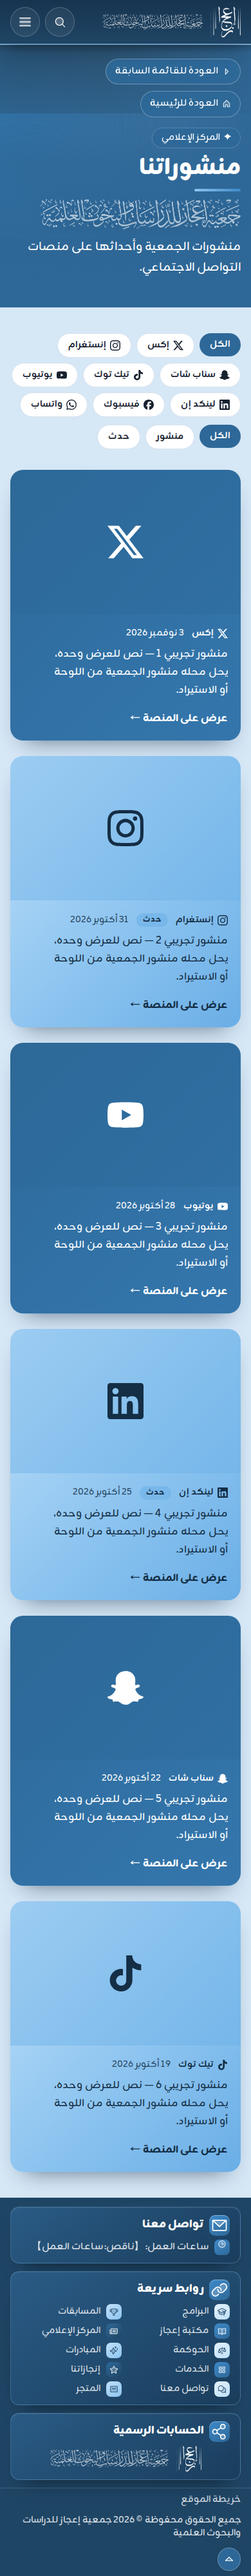
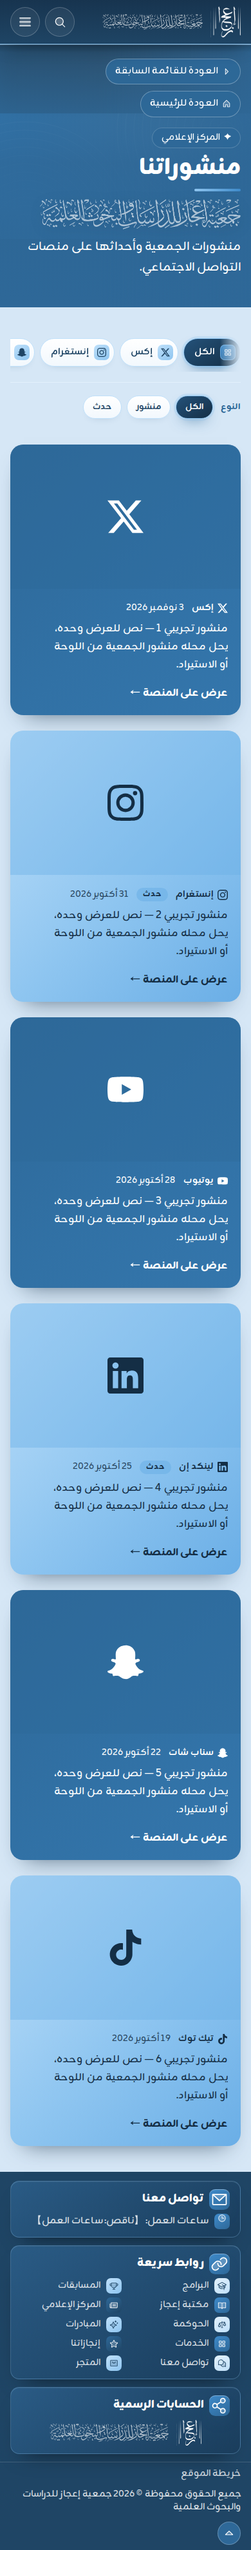
feat(media): a nicer platform filter strip on «منشوراتنا»
Safwan's note when approving #165: equal capsules with each platform's
logo in a small blue icon tile, the active one dark blue with an #8EC5F0
border and a soft glow, a small lift on hover (none for reduced motion),
one scrolling row with an edge fade on the phone that centres the active
capsule, and a smaller separate type strip under its label.

x-icon-tile now takes slot content in place of icon; without it, it draws
its icon as before.

Changed region(s): [[0.0308, 0.0, 0.9538, 0.7769], [0.0308, 0.7769, 0.9538, 0.9944], [0.4615, 0.0, 0.5846, 0.0311]]

diff --git a/resources/css/social-filters.css b/resources/css/social-filters.css
@@ -1,0 +1,162 @@
+/*
+| شريط تصفية «منشوراتنا» بالمنصة والنوع (ملاحظة صفوان على #165، 4 نوفمبر 2026 — docs/decisions/2026-11-04-social-posts.md):
+| - كبسولات بارتفاع وحشو واحد، لكل منصة شعارها في مربع أيقونة صغير متدرج (x-icon-tile بحجم xs ودرجة light).
+| - النشطة زرقاء داكنة بحد #8EC5F0 وتوهج خفيف، والمرور يرفعها قليلاً، والحركة بـ --motion فتتوقف لمن طلب تقليلها.
+| - على الجوال شريط أفقي يُمرَّر داخله بلا التفاف ولا تمرير للصفحة، بتلاشٍ عند حافته. ومن 640 بكسل يلتف كما كان.
+| - النوع شريط أصغر منفصل بعنوانه.
+| والأزرق وحده من رموز app.css.
+*/
+
+.social-filters {
+    display: flex;
+    flex-direction: column;
+    gap: 1rem;
+}
+
+.social-filter {
+    min-width: 0;
+}
+
+/* ── المسار: أفقي يُمرَّر على الجوال ── */
+.social-filter-track {
+    display: flex;
+    flex-wrap: nowrap;
+    gap: 0.5rem;
+    overflow-x: auto;
+    overscroll-behavior-inline: contain;
+    scroll-snap-type: inline proximity;
+    scrollbar-width: none;
+    /* مكان للارتفاع والتوهج داخل المسار، وللتلاشي عند حافة النهاية فتظهر آخر كبسولة كاملة حين يُمرَّر إليها */
+    padding-block: 0.5rem;
+    padding-inline: 0.375rem 2rem;
+    /* الصفحة من اليمين، فنهاية المسار يسارها */
+    -webkit-mask-image: linear-gradient(to left, transparent 0, #000 2rem);
+    mask-image: linear-gradient(to left, transparent 0, #000 2rem);
+}
+
+[dir='ltr'] .social-filter-track {
+    -webkit-mask-image: linear-gradient(to right, transparent 0, #000 2rem);
+    mask-image: linear-gradient(to right, transparent 0, #000 2rem);
+}
+
+.social-filter-track::-webkit-scrollbar {
+    display: none;
+}
+
+.social-filter-track > li {
+    flex-shrink: 0;
+    scroll-snap-align: start;
+}
+
+/* ومن 640 بكسل يلتف، وشريط النوع (ثلاث كبسولات) لا يُمرَّر على أي عرض */
+@media (min-width: 40rem) {
+    .social-filter-track {
+        flex-wrap: wrap;
+        overflow: visible;
+        padding-inline: 0;
+        -webkit-mask-image: none;
+        mask-image: none;
+    }
+}
+
+.social-filter-kind .social-filter-track {
+    overflow: visible;
+    padding-inline: 0;
+    -webkit-mask-image: none;
+    mask-image: none;
+}
+
+/* ── الكبسولة ── */
+.social-filter-pill {
+    display: inline-flex;
+    align-items: center;
+    gap: 0.5rem;
+    min-height: 2.75rem;
+    padding-block: 0.375rem;
+    /* بداية الكبسولة لمربع الأيقونة، فحشوها أضيق من نهايتها */
+    padding-inline: 0.4375rem 1rem;
+    border: 1px solid var(--blue-200);
+    border-radius: 999px;
+    background: linear-gradient(180deg, #fff 0%, var(--blue-50) 100%);
+    color: var(--blue-900);
+    font-size: 0.875rem;
+    font-weight: 700;
+    line-height: 1.25rem;
+    white-space: nowrap;
+    box-shadow: 0 6px 14px -12px rgb(31 69 101 / 0.45);
+    transition:
+        transform calc(250ms * var(--motion)) ease,
+        box-shadow calc(250ms * var(--motion)) ease,
+        border-color calc(150ms * var(--motion)) ease;
+}
+
+.social-filter-pill:hover,
+.social-filter-pill:focus-visible {
+    border-color: var(--blue-300);
+    transform: translateY(calc(-2px * var(--motion)));
+    box-shadow: 0 12px 20px -12px rgb(46 104 152 / 0.55);
+}
+
+.social-filter-pill:focus-visible {
+    outline: 2px solid var(--blue-600);
+    outline-offset: 2px;
+}
+
+/* المربع يرتفع مع الكبسولة لا وحده داخلها */
+.social-filter-pill:hover > .icon-tile,
+.social-filter-pill:focus-visible > .icon-tile {
+    transform: none;
+}
+
+.social-filter-pill[aria-current='page'] {
+    border-color: var(--blue-300);
+    background: linear-gradient(145deg, var(--blue-850) 0%, var(--blue-950) 100%);
+    color: #fff;
+    box-shadow:
+        0 0 0 3px rgb(142 197 240 / 0.28),
+        0 10px 22px -10px rgb(46 104 152 / 0.75);
+}
+
+.social-filter-pill[aria-current='page'] .icon-tile {
+    --tile-from: var(--blue-600);
+    --tile-to: var(--blue-700);
+    --tile-glyph: #fff;
+    box-shadow: inset 0 0 0 1px rgb(142 197 240 / 0.6);
+}
+
+/* ── النوع: شريط أصغر منفصل بعنوانه ── */
+.social-filter-kind {
+    display: flex;
+    align-items: center;
+    gap: 0.75rem;
+    padding-block-start: 0.75rem;
+    border-block-start: 1px solid var(--blue-100);
+}
+
+.social-filter-kind .social-filter-track {
+    min-width: 0;
+}
+
+.social-filter-label {
+    flex-shrink: 0;
+    color: var(--blue-700);
+    font-size: 0.8125rem;
+    font-weight: 800;
+}
+
+.social-filter-pill-sm {
+    min-height: 2.25rem;
+    padding-inline: 0.875rem;
+    font-size: 0.8125rem;
+}
+
+@media (prefers-reduced-motion: reduce) {
+    .social-filter-pill {
+        transition: none;
+    }
+
+    .social-filter-pill:hover,
+    .social-filter-pill:focus-visible {
+        transform: none;
+    }
+}

diff --git a/resources/js/social-filters.js b/resources/js/social-filters.js
@@ -1,0 +1,22 @@
+// شريط تصفية «منشوراتنا» يُمرَّر أفقياً على الجوال (social-filters.css)، فالمنصة المختارة من آخره تبقى خارجه بعد التنقّل.
+// فتُوسَّط الكبسولة النشطة داخل الشريط وحده، لا الصفحة (scrollIntoView يحرك الصفحة رأسياً). ملاحظة صفوان على #165، 4 نوفمبر 2026.
+import { onPage } from './page';
+
+onPage(() => {
+    document.querySelectorAll('[data-social-filter] .social-filter-track').forEach((track) => {
+        const active = track.querySelector('[aria-current="page"]');
+
+        if (!active || track.scrollWidth <= track.clientWidth) {
+            return;
+        }
+
+        const box = track.getBoundingClientRect();
+        const pill = active.getBoundingClientRect();
+
+        if (pill.left >= box.left && pill.right <= box.right) {
+            return;
+        }
+
+        track.scrollBy({ left: pill.left + pill.width / 2 - (box.left + box.width / 2), behavior: 'instant' });
+    });
+});

diff --git a/resources/css/app.css b/resources/css/app.css
@@ -10,6 +10,8 @@
 @import './concept.css';
 /* الإعلانات والأخبار في الرئيسية (ملاحظة صفوان ٣٠): أصناف مستقلة عن ألوان الملاحظة ٢٩ */
 @import './feed.css';
+/* شريط تصفية «منشوراتنا» بالمنصة والنوع (ملاحظة صفوان على #165، 4 نوفمبر 2026) */
+@import './social-filters.css';
 
 @source '../views';
 @source '../js';

diff --git a/resources/js/app.js b/resources/js/app.js
@@ -22,6 +22,7 @@ import './pdf-reader';
 import './profile-reveal';
 import './image-fit';
 import './contact-form';
+import './social-filters';
 
 function setOpen(toggle, open) {
     const target = document.getElementById(toggle.getAttribute('aria-controls'));

diff --git a/resources/views/media/social/index.blade.php b/resources/views/media/social/index.blade.php
@@ -5,9 +5,6 @@
 @php
     $platformLink = fn (?\App\Enums\SocialPlatform $option): string => route('media.social', array_filter(['platform' => $option?->value, 'kind' => $kind?->value]));
     $kindLink = fn (?\App\Enums\SocialPostKind $option): string => route('media.social', array_filter(['platform' => $platform?->value, 'kind' => $option?->value]));
-    $pill = 'inline-flex items-center gap-1.5 rounded-full px-4 py-2 text-sm font-semibold transition';
-    $on = 'bg-primary text-white';
-    $off = 'border border-line bg-white text-ink hover:border-primary hover:text-primary';
 @endphp
 
 <x-page-hero :title="__('social_posts.title')" :summary="__('social_posts.list.intro')" />
@@ -15,32 +12,39 @@
 
 <section class="py-10 sm:py-14">
     <div class="container-page">
-        <nav aria-label="{{ __('social_posts.list.filter_platform') }}" data-social-filter="platform">
-            <ul class="flex flex-wrap gap-2">
-                @foreach ([null, ...\App\Enums\SocialPlatform::cases()] as $option)
-                    <li>
-                        <a href="{{ $platformLink($option) }}" wire:navigate @if ($option === $platform) aria-current="page" @endif @class([$pill, $on => $option === $platform, $off => $option !== $platform])>
-                            @if ($option)
-                                <x-social-icon :network="$option->value" class="size-4" />
-                            @endif
-                            {{ $option?->getLabel() ?? __('social_posts.list.all') }}
-                        </a>
-                    </li>
-                @endforeach
-            </ul>
-        </nav>
+        {{-- شريط التصفية (ملاحظة صفوان على #165): كبسولة لكل منصة بشعارها في مربع أيقونة صغير، وتحته النوع شريطاً أصغر بعنوانه.
+             الأنماط في resources/css/social-filters.css --}}
+        <div class="social-filters">
+            <nav aria-label="{{ __('social_posts.list.filter_platform') }}" class="social-filter" data-social-filter="platform">
+                <ul class="social-filter-track">
+                    @foreach ([null, ...\App\Enums\SocialPlatform::cases()] as $option)
+                        <li>
+                            <a href="{{ $platformLink($option) }}" wire:navigate @if ($option === $platform) aria-current="page" @endif class="social-filter-pill" data-social-filter-pill>
+                                @if ($option)
+                                    <x-icon-tile size="xs" shade="light" class="social-filter-tile"><x-social-icon :network="$option->value" class="size-3.5" /></x-icon-tile>
+                                @else
+                                    <x-icon-tile icon="squares-2x2" size="xs" shade="light" class="social-filter-tile" />
+                                @endif
+                                <span>{{ $option?->getLabel() ?? __('social_posts.list.all') }}</span>
+                            </a>
+                        </li>
+                    @endforeach
+                </ul>
+            </nav>
 
-        <nav aria-label="{{ __('social_posts.list.filter_kind') }}" class="mt-3" data-social-filter="kind">
-            <ul class="flex flex-wrap gap-2">
-                @foreach ([null, ...\App\Enums\SocialPostKind::cases()] as $option)
-                    <li>
-                        <a href="{{ $kindLink($option) }}" wire:navigate @if ($option === $kind) aria-current="page" @endif @class([$pill, $on => $option === $kind, $off => $option !== $kind])>
-                            {{ $option?->getLabel() ?? __('social_posts.list.all') }}
-                        </a>
-                    </li>
-                @endforeach
-            </ul>
-        </nav>
+            <nav aria-label="{{ __('social_posts.list.filter_kind') }}" class="social-filter social-filter-kind" data-social-filter="kind">
+                <span class="social-filter-label" data-social-filter-label>{{ __('social_posts.fields.kind') }}</span>
+                <ul class="social-filter-track">
+                    @foreach ([null, ...\App\Enums\SocialPostKind::cases()] as $option)
+                        <li>
+                            <a href="{{ $kindLink($option) }}" wire:navigate @if ($option === $kind) aria-current="page" @endif class="social-filter-pill social-filter-pill-sm" data-social-filter-pill>
+                                {{ $option?->getLabel() ?? __('social_posts.list.all') }}
+                            </a>
+                        </li>
+                    @endforeach
+                </ul>
+            </nav>
+        </div>
 
         <h2 class="sr-only">{{ __('social_posts.list.items') }}</h2>
 

diff --git a/tests/Feature/Media/SocialPostsTest.php b/tests/Feature/Media/SocialPostsTest.php
@@ -17,6 +17,7 @@ use Database\Seeders\DemoSocialPostsSeeder;
 use Filament\Actions\Testing\TestAction;
 use Illuminate\Auth\Access\AuthorizationException;
 use Illuminate\Http\UploadedFile;
+use Illuminate\Support\Facades\Blade;
 use Illuminate\Support\Facades\DB;
 use Illuminate\Support\Facades\Route;
 use Illuminate\Support\Facades\Storage;
@@ -454,6 +455,22 @@ it('lists «منشوراتنا» in the media center dropdown only, without addi
     ]]);
     expect(array_count_values(array_column($children, 'url'))['/media/social'])->toBe(1)
         ->and(array_column($children, 'label'))->toContain('منشورات الجمعية')->not->toContain(__('media.tiles.social'));
+});
+
+it('draws each platform filter with its logo inside an icon tile, and the type strip under its label', function () {
+    $html = (string) $this->get(route('media.social', ['platform' => 'instagram']))->assertOk()->getContent();
+
+    preg_match('/data-social-filter="platform">(.*?)<\/nav>/s', $html, $platforms);
+    expect(substr_count($platforms[1], 'data-icon-tile'))->toBe(count(SocialPlatform::cases()) + 1)
+        ->and(substr_count($platforms[1], 'data-social-filter-pill'))->toBe(count(SocialPlatform::cases()) + 1)
+        ->and($platforms[1])->toMatch('/aria-current="page"[^>]*>\s*<span data-icon-tile/');
+
+    preg_match('/data-social-filter="kind">(.*?)<\/nav>/s', $html, $kinds);
+    expect($kinds[1])->toContain(__('social_posts.fields.kind'))->not->toContain('data-icon-tile');
+
+    // ومربع الأيقونة بلا محتوى يرسم أيقونته كما كان
+    expect(Blade::render('<x-icon-tile icon="squares-2x2" size="xs" />'))->toContain('<svg')->toContain('icon-tile-xs')
+        ->and(Blade::render('<x-icon-tile size="xs"><b>شعار</b></x-icon-tile>'))->toContain('<b>شعار</b>');
 });
 
 it('seeds marked demo posts in the local environment only', function () {

diff --git a/resources/views/components/icon-tile.blade.php b/resources/views/components/icon-tile.blade.php
@@ -8,7 +8,8 @@
     والرسم Phosphor duotone عبر App\Support\Icon. زخرفة، فاسم البطاقة يكفي. size: xs (القائمة وروابط التذييل) أو sm أو md أو lg أو xl.
     وtone اسم سابق لـ shade، وindex لم يعد يحدد الدرجة (يبقى في الخصائص فلا يتسرب سمةً إلى الصفحة).
 --}}
-@props(['icon', 'variant' => 'gradient', 'shade' => null, 'tone' => null, 'index' => 0, 'size' => 'md'])
+{{-- ورسم غير Phosphor (شعار منصة من x-social-icon) يُمرَّر في المحتوى بدل icon، فيأخذ المربع وحركته كما هما --}}
+@props(['icon' => null, 'variant' => 'gradient', 'shade' => null, 'tone' => null, 'index' => 0, 'size' => 'md'])
 
 @php
     $variant = in_array($variant, ['line', 'glass', 'gradient'], true) ? $variant : 'gradient';
@@ -19,5 +20,9 @@
 
 <span data-icon-tile data-variant="{{ $variant }}" @if ($shade) data-shade="{{ $shade }}" @endif
     {{ $attributes->class(['icon-tile gt', 'icon-tile-'.$size]) }} aria-hidden="true">
-    {{ \App\Support\Icon::svg($icon, $iconSize.' relative') }}
+    @if ($slot->isEmpty())
+        {{ \App\Support\Icon::svg((string) $icon, $iconSize.' relative') }}
+    @else
+        {{ $slot }}
+    @endif
 </span>

diff --git a/docs/decisions/2026-11-04-social-posts.md b/docs/decisions/2026-11-04-social-posts.md
@@ -37,6 +37,11 @@
     - المنشور وحده، الأحدث أولاً، بتصفية بالمنصة والنوع وترقيم 12، وحد 120 طلباً في الدقيقة لكل عنوان.
     - والصفحة الأولى بلا تصفية مخزنة كقائمة الأخبار.
     - والبطاقة: الصورة أو شعار المنصة، والمنصة والنوع والتاريخ، ومقتطف النص، و«عرض على المنصة» بـ `target="_blank" rel="noopener noreferrer"`.
+    - **شريط التصفية** (ملاحظة صفوان عند الموافقة، 4 نوفمبر 2026: «شريط الأيقونات اجعله أجمل»)، في `resources/css/social-filters.css`:
+      - كبسولات بارتفاع وحشو واحد، لكل منصة شعارها في `x-icon-tile` صغير بالأزرق وحده. والمكوّن صار يقبل محتوى بدل `icon`، وبلا محتوى يرسم أيقونته كما كان.
+      - النشطة زرقاء داكنة بحد #8EC5F0 وتوهج خفيف، والمرور يرفعها 2 بكسل، ولا حركة لمن طلب تقليلها.
+      - على الجوال صف واحد يُمرَّر داخله بتلاشٍ عند حافته، والكبسولة النشطة تُوسَّط فيه بعد التنقّل (`resources/js/social-filters.js`، داخل الشريط وحده لا الصفحة). ومن 640 بكسل يلتف.
+      - النوع شريط أصغر منفصل بعنوان «النوع».
   - **بلاطات المركز الإعلامي** خمس:
     - صف واحد على الحاسوب.
     - والأخيرة بعرض كامل في عمودي الجوال، فلا تبقى وحدها نصف صف.
@@ -46,7 +51,7 @@
   - والحقيقية يدخلها المسؤول أو الاستيراد.
   - ونص مقدمة الصفحة وصف للقسم من `lang/ar/social_posts.php`، لا نص رسمي.
 - **الاختبار:**
-  - `tests/Feature/Media/SocialPostsTest.php` (45 حالة):
+  - `tests/Feature/Media/SocialPostsTest.php` (46 حالة):
     - الصلاحيات.
     - الإنشاء بالصورة وسجله.
     - رفض الرابط في سبع حالات، وقبول نطاقات المنصات الفرعية.
